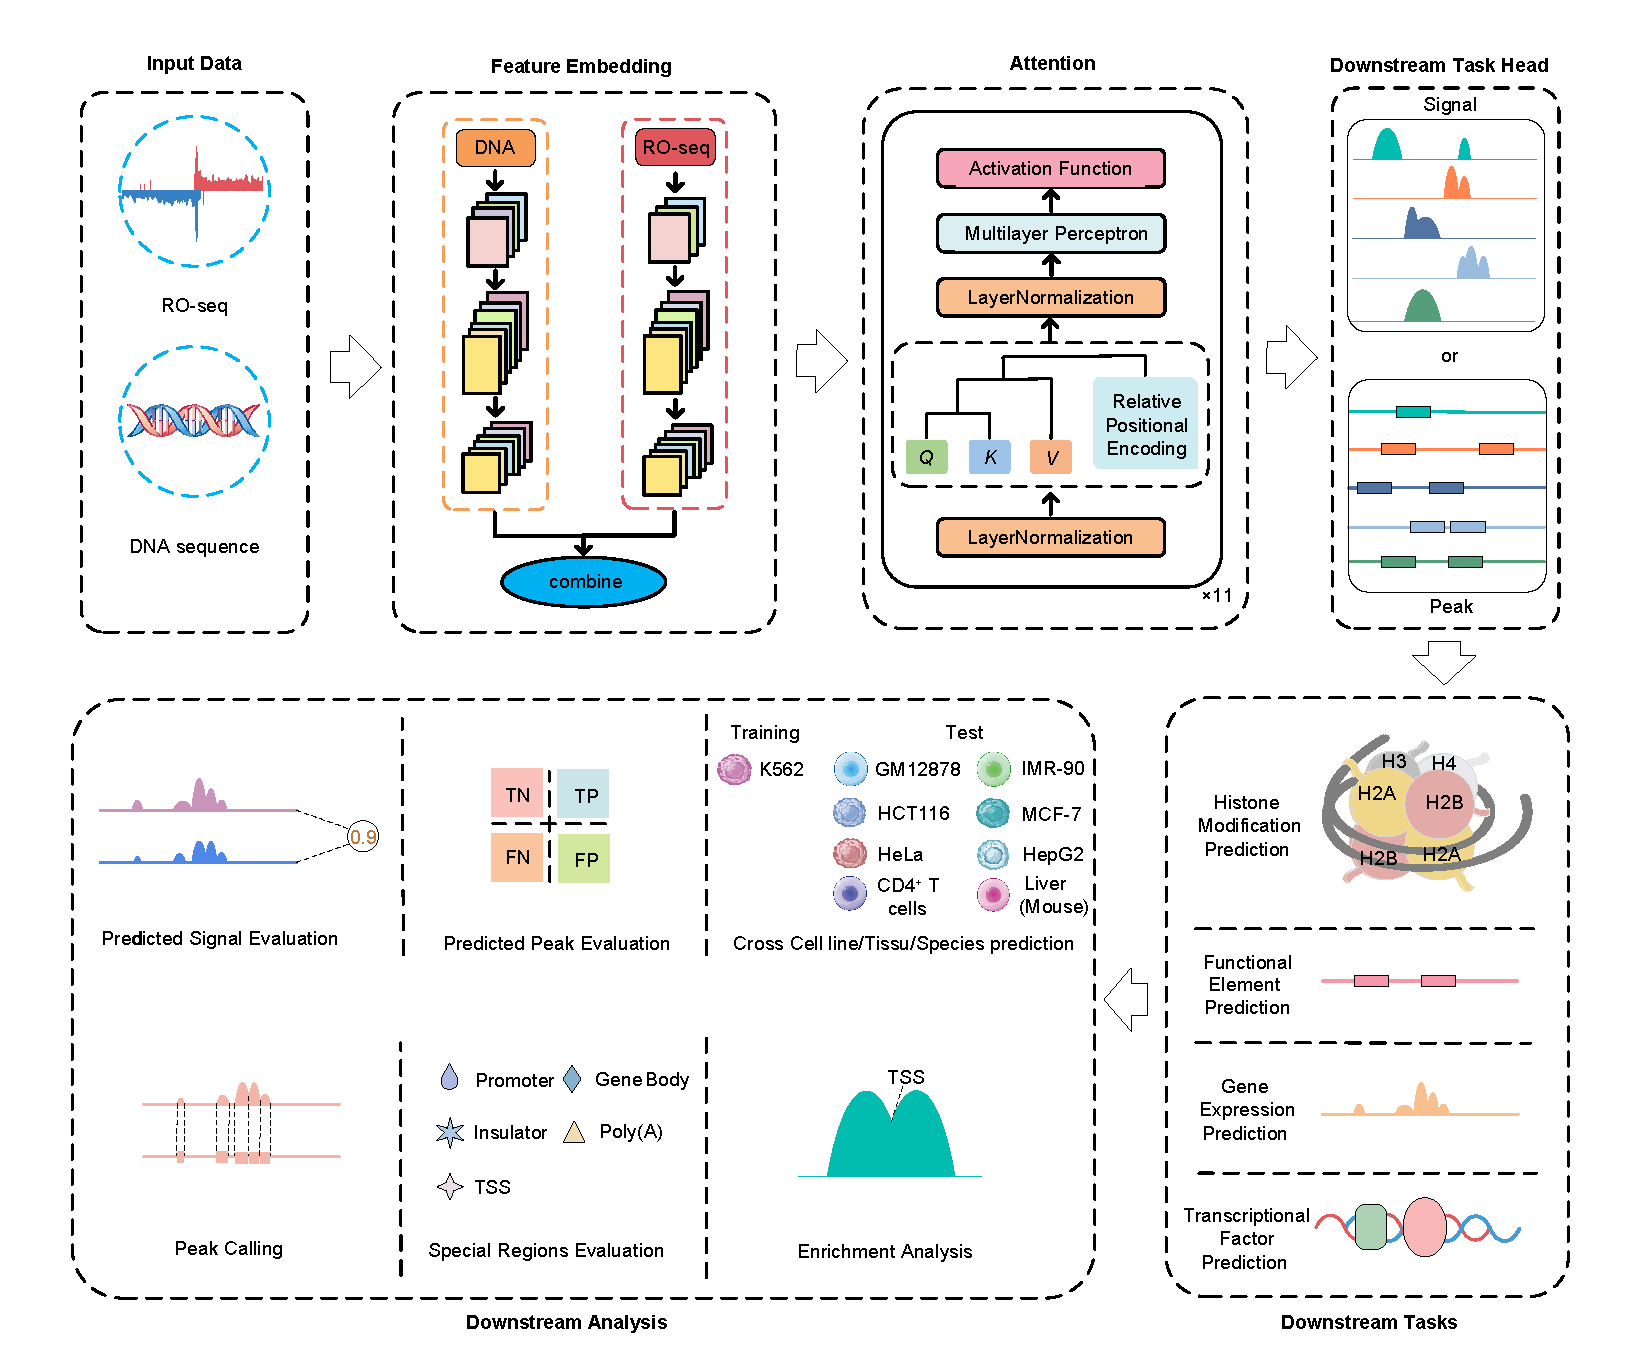
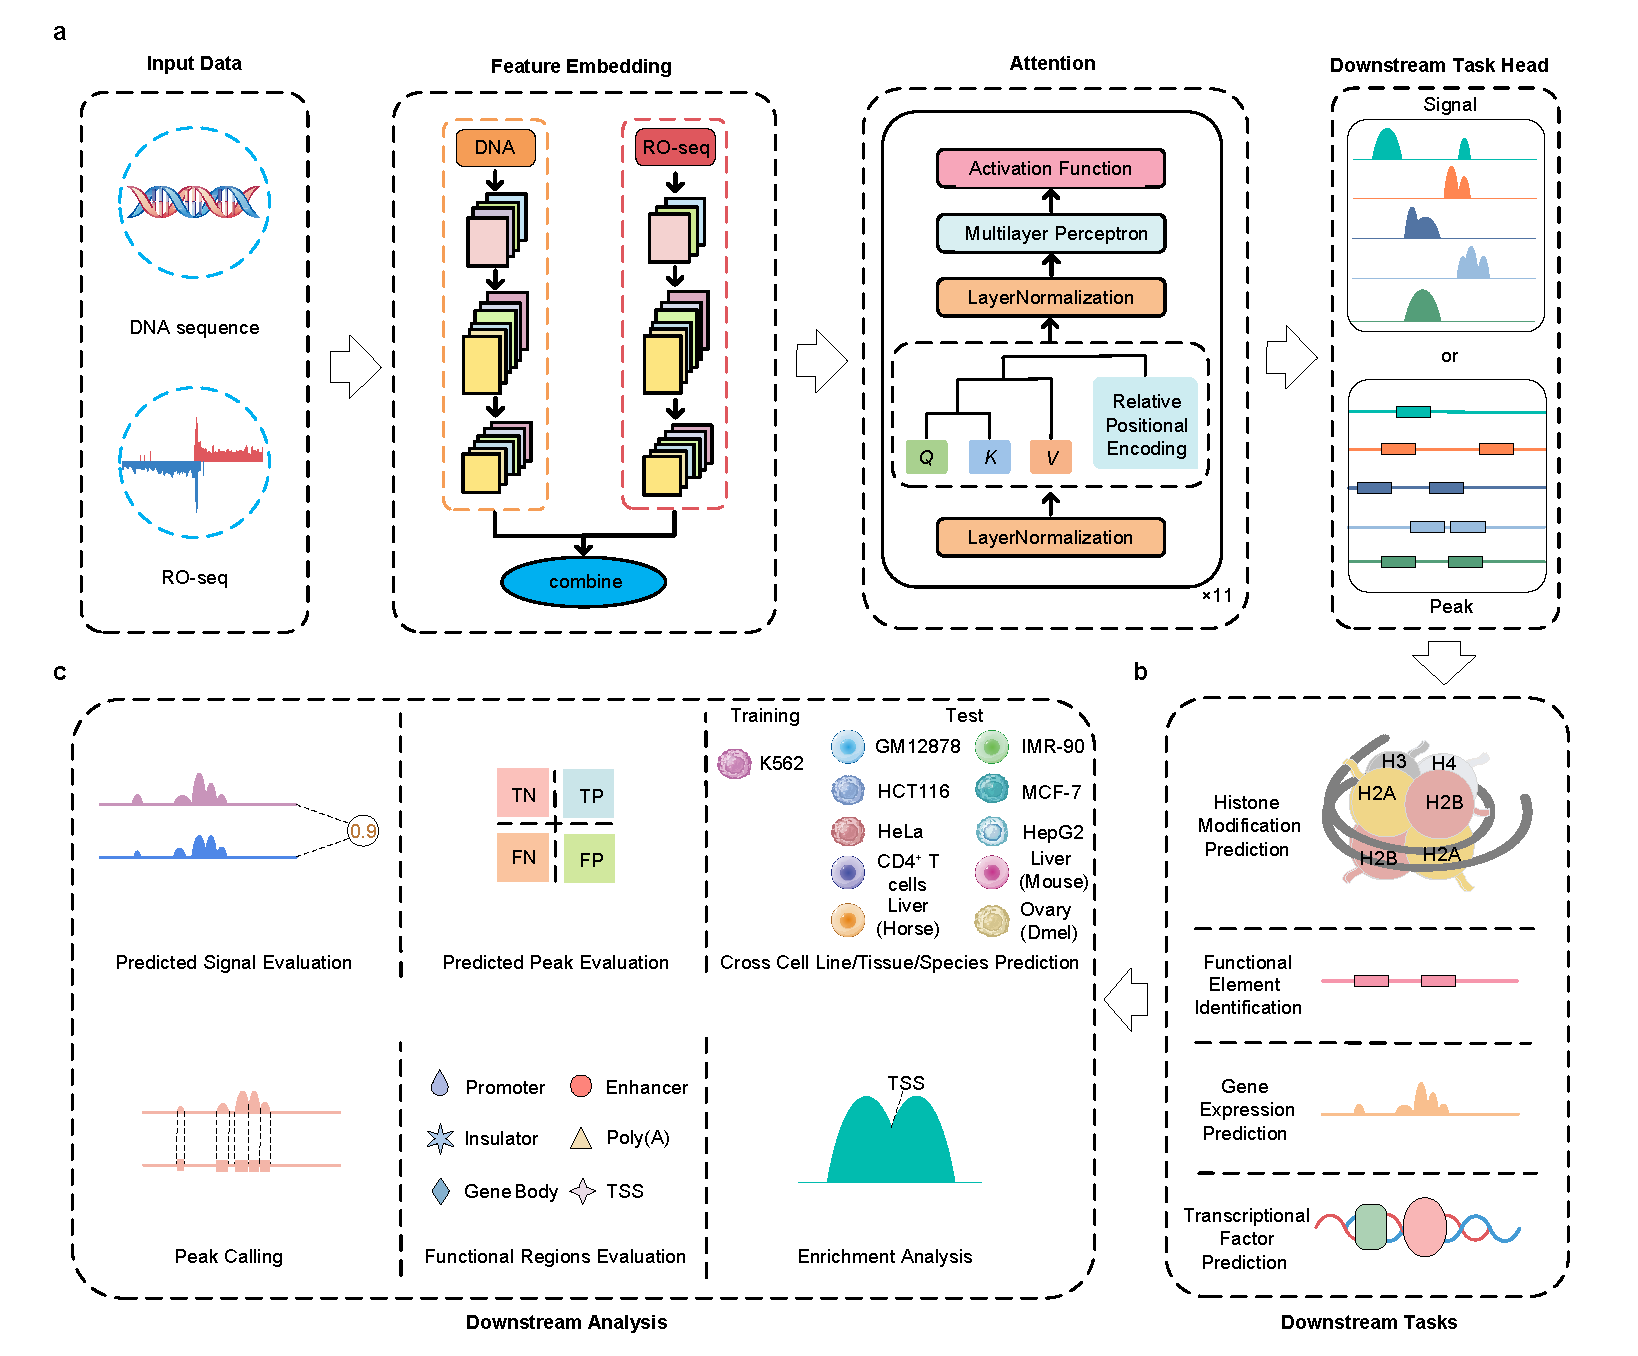
update

diff --git a/README.md b/README.md
@@ -16,7 +16,8 @@ This package provides an implementation for training, testing, and evaluation of
 |:-|:-|:-|:-|
 |1|Histone modification|H3K4me1, H3K122ac, H3K4me2, H3K4me3, H3K27ac, H3K27me3, H3K36me3, H3K9ac, H3K9me3, H4K20me1|ChIP-seq|
 |2|Functional element|Promoter, Insulator, Poly(A), Gene Body|annotation|
-|3|Gene expression||RNA-seq|
+|3|Gene expression|nucleus_longPolyA, cell_longNonPolyA, nucleoplasm_total, chromatin_total, nucleolus_total, cell_longPolyA, nucleus_longNonPolyA, cytosol_longNonPolyA, cell_total, cytosol_longPolyA
+|RNA-seq|
 |4|TFBS|TCF7, NRF1, JUNB, NR2F6, RUNX1, ZBTB11, ZBED1, MBD2, CREM, ETV6, SMAD5, SP1, NR2F1, RFX1, IKZF1, TCF7L2, ZKSCAN1, ZBTB33, FOXA1, SREBF1, ZZZ3, CEBPZ, ELF1, ESRRA, NKRF, FOXK2, ZBTB40, REST, PKNOX1, HES1, NFXL1, ZNF47, NEUROD1, E2F8, POU5F1, ZNF282, E4F1, ARNT, ASH1L, ZSCAN29, NFATC3, SMAD1, ATF3, NFIC, SOX6, ATF2, ATF7, TCF12, NR2C1, LEF1, ZNF24, GATAD2B, MNT, ELF4, SKIL, FOXM1, ZNF592, MYBL2, EGR1, BHLHE40, BACH1, JUND, RFX5, MAFF, MYC, ZNF274, CEBPB, MXI1, TBP, CTCF, USF2, ATF1, MAZ, MAFK, MAX, ZBTB7A, ETS1, FOSL1, SPI1, SIX5, MEF2A, TEAD4, CREB1, STAT5A, NR2F2, CUX1, ZNF384, ELK1, JUN, SETDB1, |TFBS peak|
 
 
@@ -88,19 +89,25 @@ The bigWig files must meet the following three criteria:
 
 2. Each strand should contain only positive or only negative values, with no mixing of signs within a strand.
 
-3. No normalization
+3. Normalization for histone modification prediction, gene expression prediction and TFBS prediction. No Normalization for functional element identification.
 
 As for how to generate bigWig files from fastq data, please refer to https://github.com/Danko-Lab/proseq2.0/.
 
 (2) DNA sequence
 
-Download the reference genomes (hg19 and mm10) from the following links:
+Download the reference genomes (hg19, mm10, equCab2 and dm6) from the following links:
 
 *   hg19:
 http://hgdownload.cse.ucsc.edu/goldenPath/hg19/bigZips/hg19.fa.gz
 
 *   mm10:
 http://hgdownload.cse.ucsc.edu/goldenPath/mm10/bigZips/mm10.fa.gz
+
+*   equCab2:
+https://hgdownload.soe.ucsc.edu/goldenPath/equCab2/bigZips/equCab2.fa.gz
+
+*   dm6:
+https://hgdownload.soe.ucsc.edu/goldenPath/dm6/bigZips/dm6.fa.gz
 
 Then, navigate to your designated reference directory, download, and decompress the fasta files:
 
